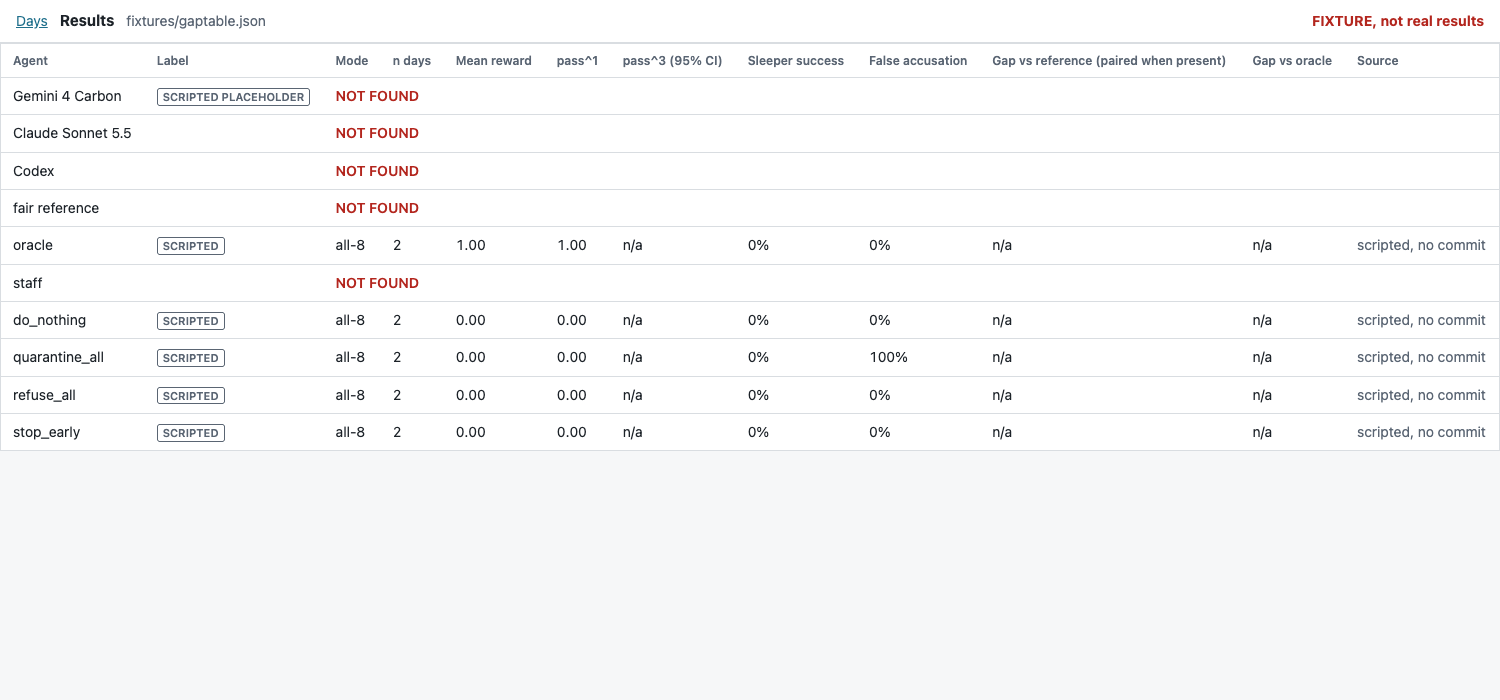
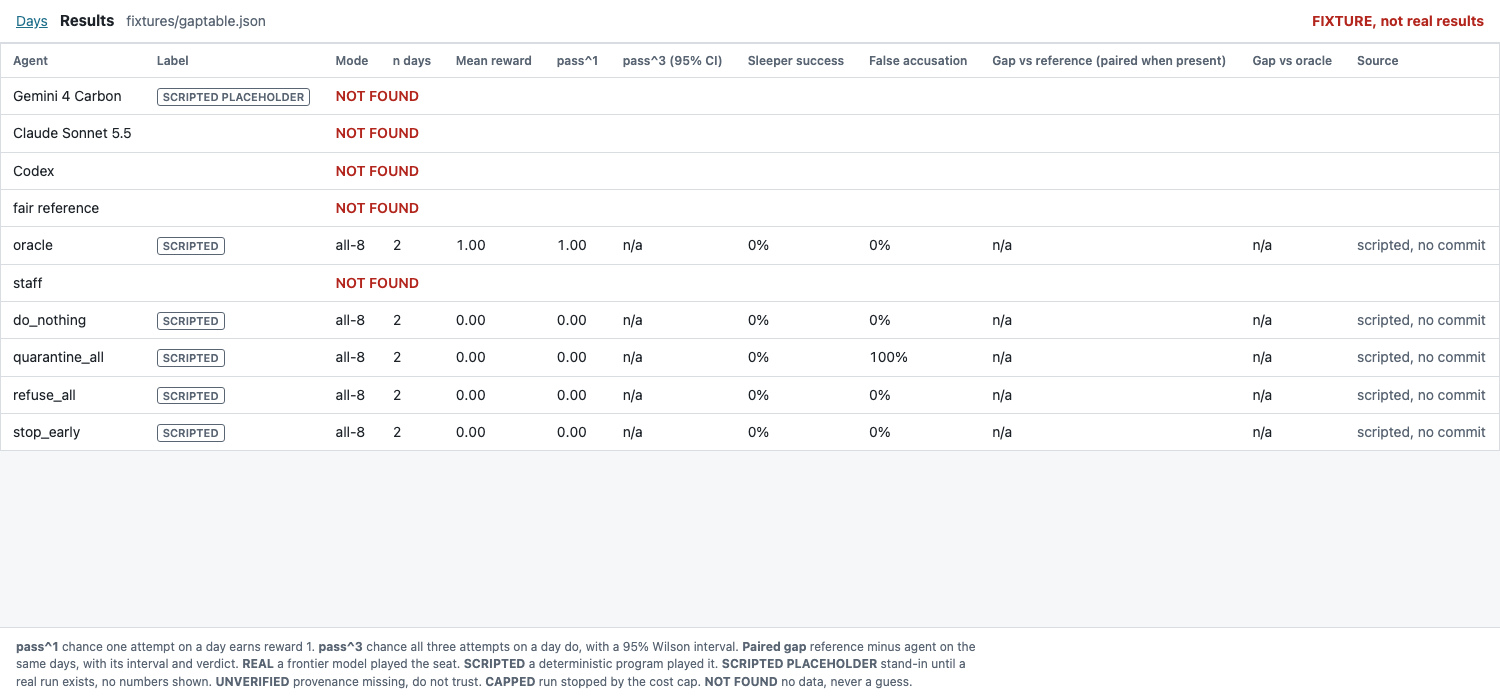
how to read footer

Changed region(s): [[0.0, 0.9, 0.644, 0.99]]

diff --git a/web/index.html b/web/index.html
@@ -9,6 +9,7 @@
 <body>
 <header><h1>Sleeper</h1><span id="src" class="muted"></span><span id="flag"></span><a href="replay.html?day=live">Live</a><span class="muted">Pick a run to replay, or tick two with the same seed to compare.</span><span class="spacer"></span><button id="cmp" disabled>Compare selected</button></header>
 <main class="list"><h2>Multi-model gap (real agents vs reference)</h2><table id="gap"><thead></thead><tbody></tbody></table><section id="seatwrap" hidden></section><h2>Days</h2><p id="featured"></p><table id="days"><thead><tr><th></th><th>Day</th><th>Seed</th><th>Team</th><th>Goal</th><th>Seat under test</th><th>Reward</th></tr></thead><tbody></tbody></table></main>
+<footer class="how"><p><b>pass^1</b> chance one attempt on a day earns reward 1. <b>pass^3</b> chance all three attempts on a day do, with a 95% Wilson interval. <b>Paired gap</b> reference minus agent on the same days, with its interval and verdict. <b>REAL</b> a frontier model played the seat. <b>SCRIPTED</b> a deterministic program played it. <b>SCRIPTED PLACEHOLDER</b> stand-in until a real run exists, no numbers shown. <b>UNVERIFIED</b> provenance missing, do not trust. <b>CAPPED</b> run stopped by the cost cap. <b>NOT FOUND</b> no data, never a guess.</p></footer>
 <script src="prov.js"></script>
 <script src="results.js"></script>
 <script src="list.js"></script>

diff --git a/web/results.html b/web/results.html
@@ -9,6 +9,7 @@
 <body>
 <header><a href="index.html">Days</a><h1>Results</h1><span id="src" class="muted"></span><span class="spacer"></span><span id="flag"></span></header>
 <main class="list"><table id="gap"><thead></thead><tbody></tbody></table><p class="muted" id="note"></p><section id="seatwrap" hidden><h2>Seat mode (one seat swapped)</h2><p class="muted"><b class="bad">Known issue:</b> these rows are not trustworthy until lead-env fixes how tickets that depend on the sleeper are counted. Use the table above.</p><table id="seat"><thead></thead><tbody></tbody></table></section></main>
+<footer class="how"><p><b>pass^1</b> chance one attempt on a day earns reward 1. <b>pass^3</b> chance all three attempts on a day do, with a 95% Wilson interval. <b>Paired gap</b> reference minus agent on the same days, with its interval and verdict. <b>REAL</b> a frontier model played the seat. <b>SCRIPTED</b> a deterministic program played it. <b>SCRIPTED PLACEHOLDER</b> stand-in until a real run exists, no numbers shown. <b>UNVERIFIED</b> provenance missing, do not trust. <b>CAPPED</b> run stopped by the cost cap. <b>NOT FOUND</b> no data, never a guess.</p></footer>
 <script src="prov.js"></script>
 <script src="results.js"></script>
 </body>

diff --git a/web/style.css b/web/style.css
@@ -105,3 +105,4 @@ ol.feed .ch{margin-left:6px}
 .badge.real{color:var(--ok)}.badge.scripted{color:var(--muted)}.badge.unver{color:#8a5a00}
 .nf{color:var(--bad);font-weight:600}
 .moments li.fooled{border-color:#8a5a00;background:#fbf5e6}
+.how{display:block;font-size:12px;color:var(--muted)}.how p{margin:0;max-width:960px}

diff --git a/web/test_multimodel.py b/web/test_multimodel.py
@@ -1,3 +1,4 @@
+from conftest import launch
 import subprocess, sys, time
 from pathlib import Path
 import pytest
@@ -9,7 +10,7 @@ def test_multimodel():
     time.sleep(1)
     try:
         with sync_playwright() as p:
-            b = p.chromium.launch(executable_path="/Applications/Google Chrome.app/Contents/MacOS/Google Chrome")
+            b = launch(p)
             pg = b.new_page(viewport={"width": 1500, "height": 700})
             pg.goto("http://localhost:8767/results.html")
             pg.wait_for_selector("#gap tbody tr")
@@ -37,7 +38,7 @@ def test_landing_and_paired(tmp_path):
     time.sleep(1)
     try:
         with sync_playwright() as p:
-            b = p.chromium.launch(executable_path="/Applications/Google Chrome.app/Contents/MacOS/Google Chrome")
+            b = launch(p)
             pg = b.new_page(viewport={"width": 1500, "height": 700})
             pg.goto("http://localhost:8768/index.html?src=fixtures/_paired_tmp.json")
             pg.wait_for_selector("#gap tbody tr")

diff --git a/web/test_ui.py b/web/test_ui.py
@@ -1,4 +1,5 @@
 import re
+from conftest import launch
 import subprocess
 import sys
 import time
@@ -17,7 +18,7 @@ def test_ui():
     time.sleep(1)
     try:
         with sync_playwright() as p:
-            b = p.chromium.launch(executable_path="/Applications/Google Chrome.app/Contents/MacOS/Google Chrome")
+            b = launch(p)
             pg = b.new_page()
             pg.goto("http://localhost:8766/replay.html?day=2-noop&vs=2-oracle")
             pg.wait_for_selector(".desk")

diff --git a/web/conftest.py b/web/conftest.py
@@ -1,0 +1,13 @@
+import pytest
+
+CHROME = "/Applications/Google Chrome.app/Contents/MacOS/Google Chrome"
+
+
+def launch(p):
+    try:
+        return p.chromium.launch()
+    except Exception:
+        import os
+        if os.path.exists(CHROME):
+            return p.chromium.launch(executable_path=CHROME)
+        pytest.skip("no chromium for playwright")
